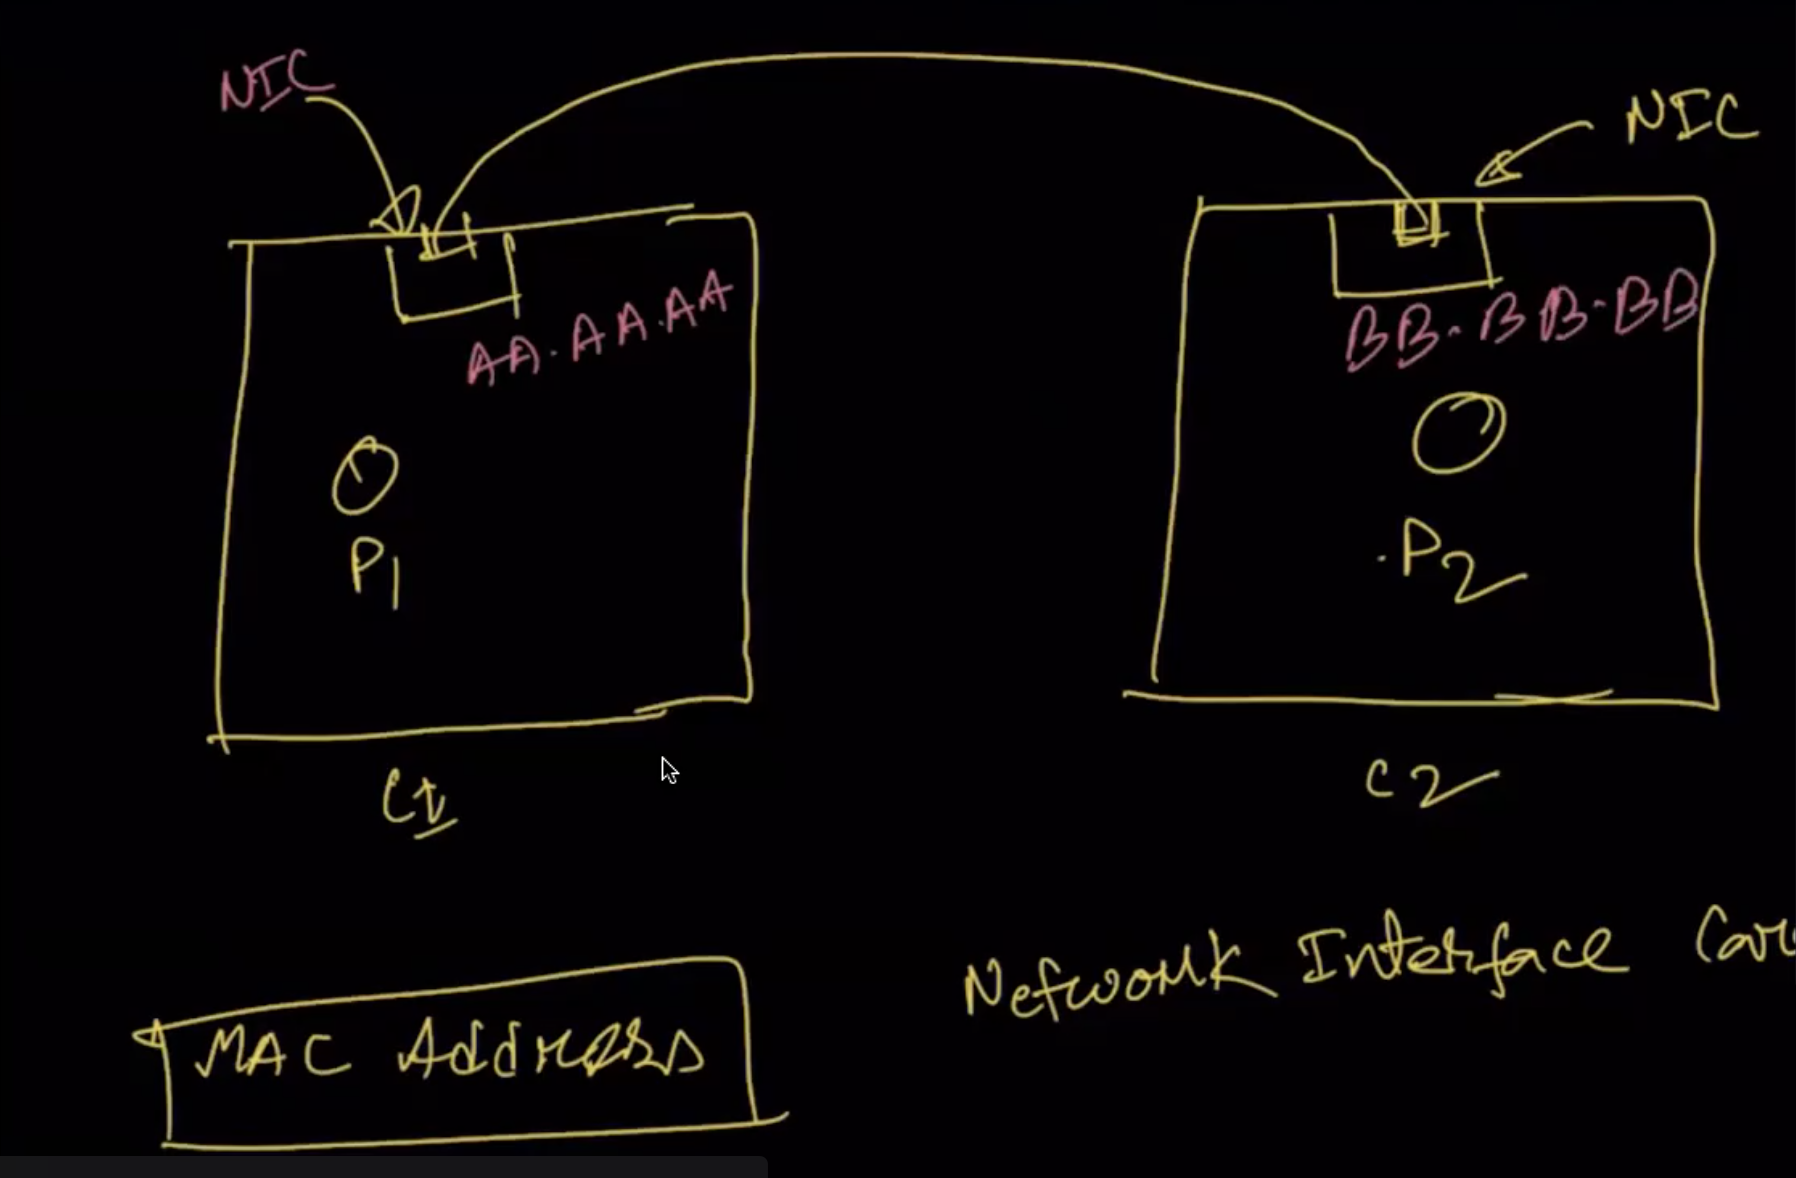
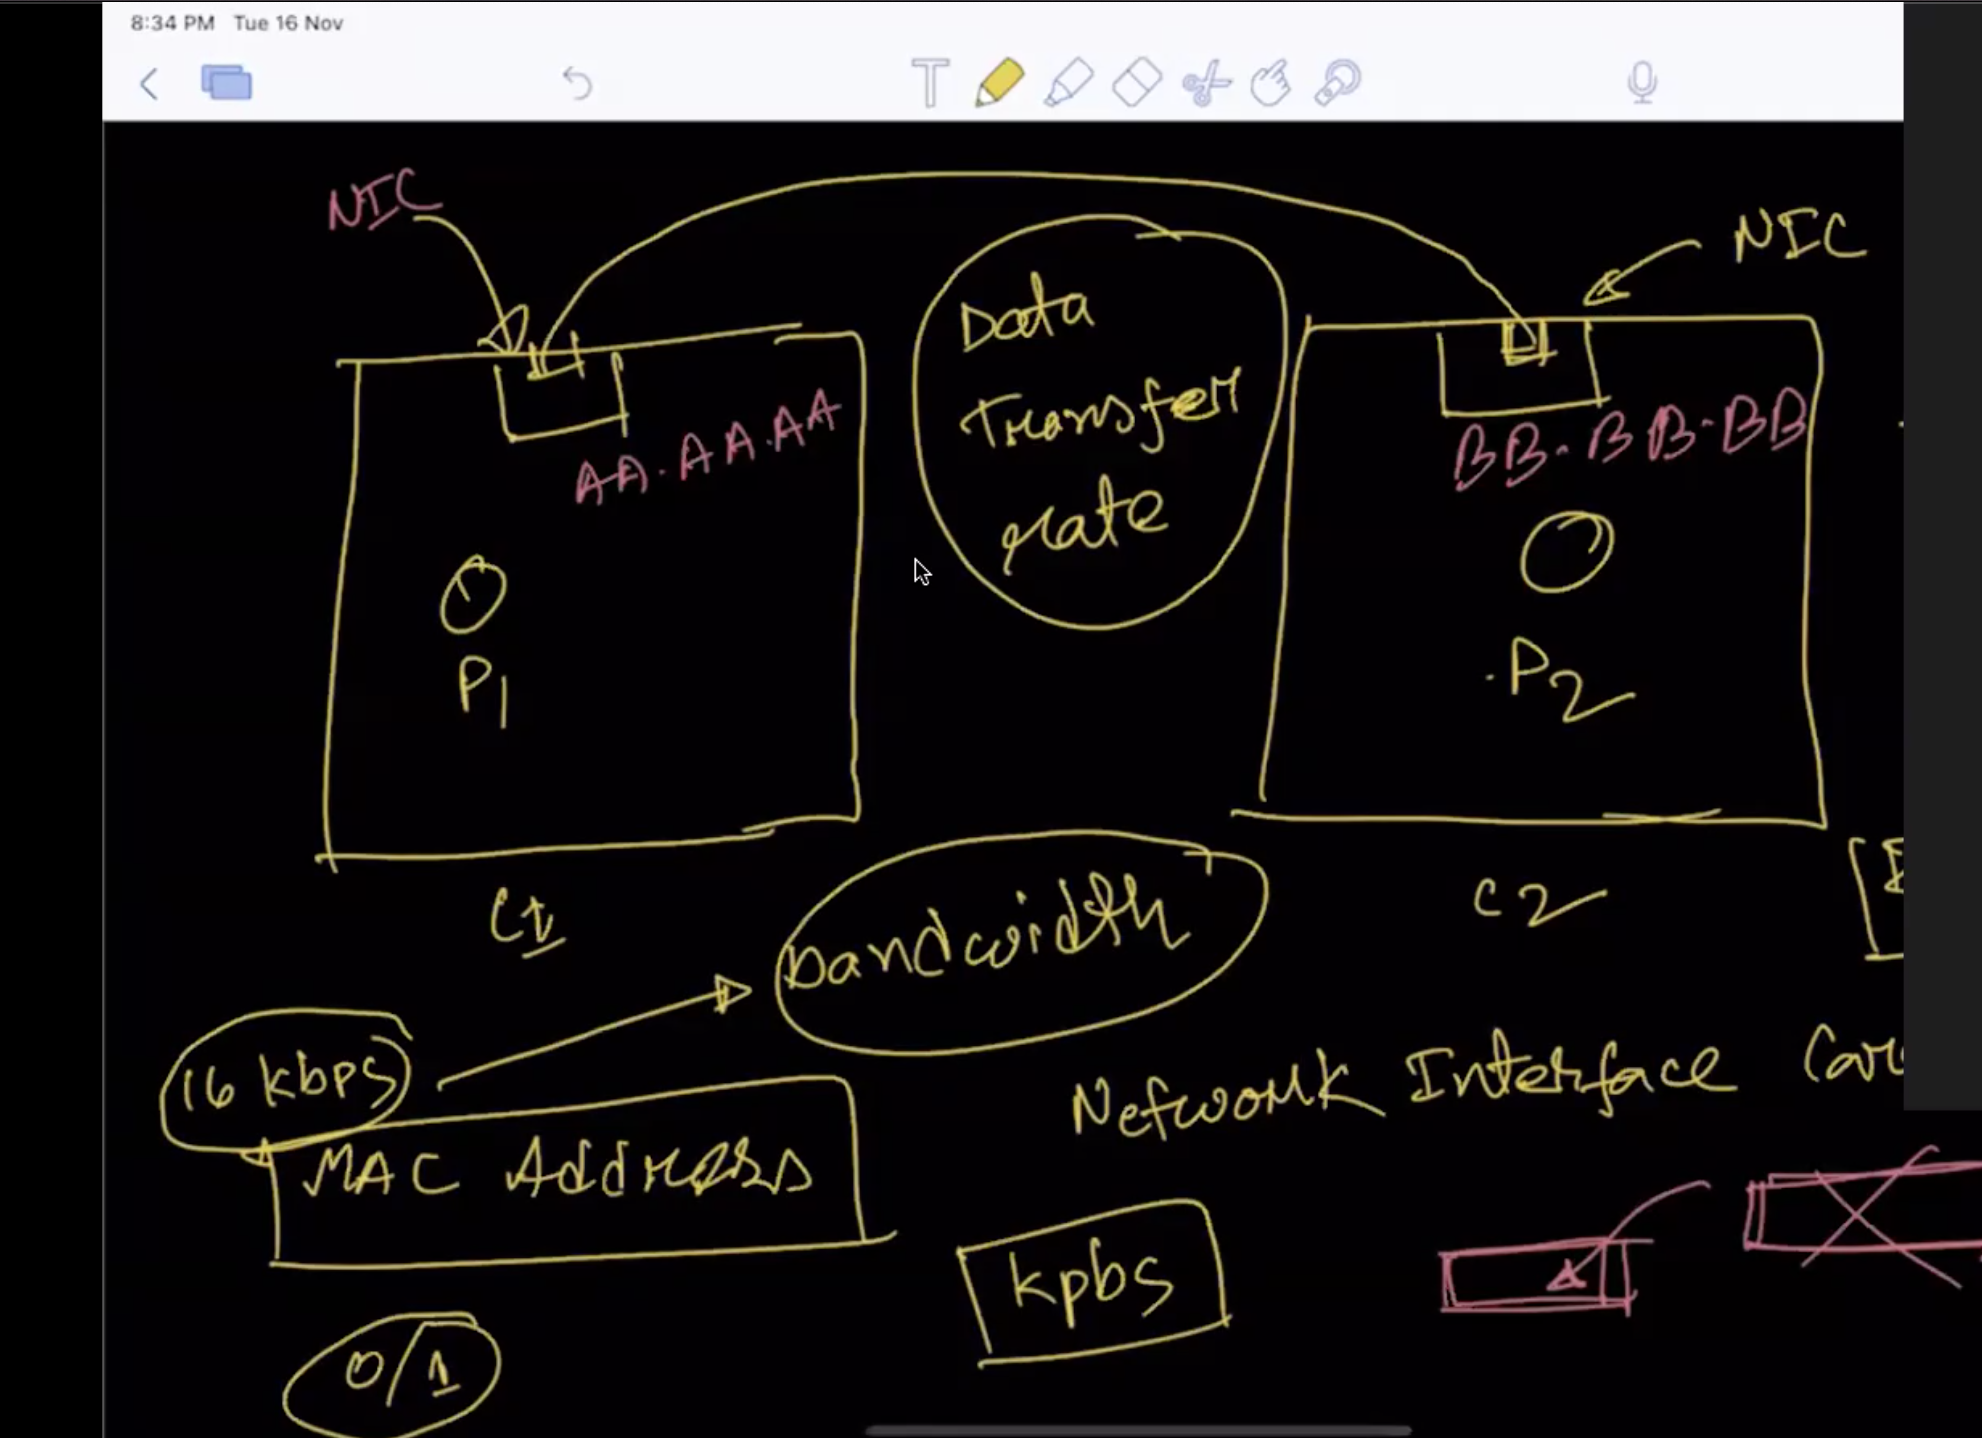
update

diff --git a/README1.md b/README1.md
@@ -32,3 +32,20 @@ There 2 type of NIC
 Media access control address(mac): media access control address (MAC address) is a unique identifier assigned to a network interface controller (NIC) for use as a network address in communications within a network segment.
 
 ![NIC and mac](./docs/images/network.png)
+
+## Data Transfer Rate(DTR)
+The data transmission rate is the volume of data transmitted over a transmission channel or via a data interface within a specified unit of time. The units used for this are baud or bits/s.
+
+## Bandwidth
+The maximum amount of data transmitted over an internet connection in a given amount of time.
+![Bandwidth](./docs/images/bandwidth.png)
+
+## About PORT in network?
+In computer network, port is a virtual point where network connection is start and end or communication endpoint.
+
+In general, process and port one to one mapping all time why?
+Because, one or more process can be comunicating with each other with reliable and stable.The process could be same computer or different computer.
+![process-to-port](./docs/images/process-to-port.png)
+
+
+
